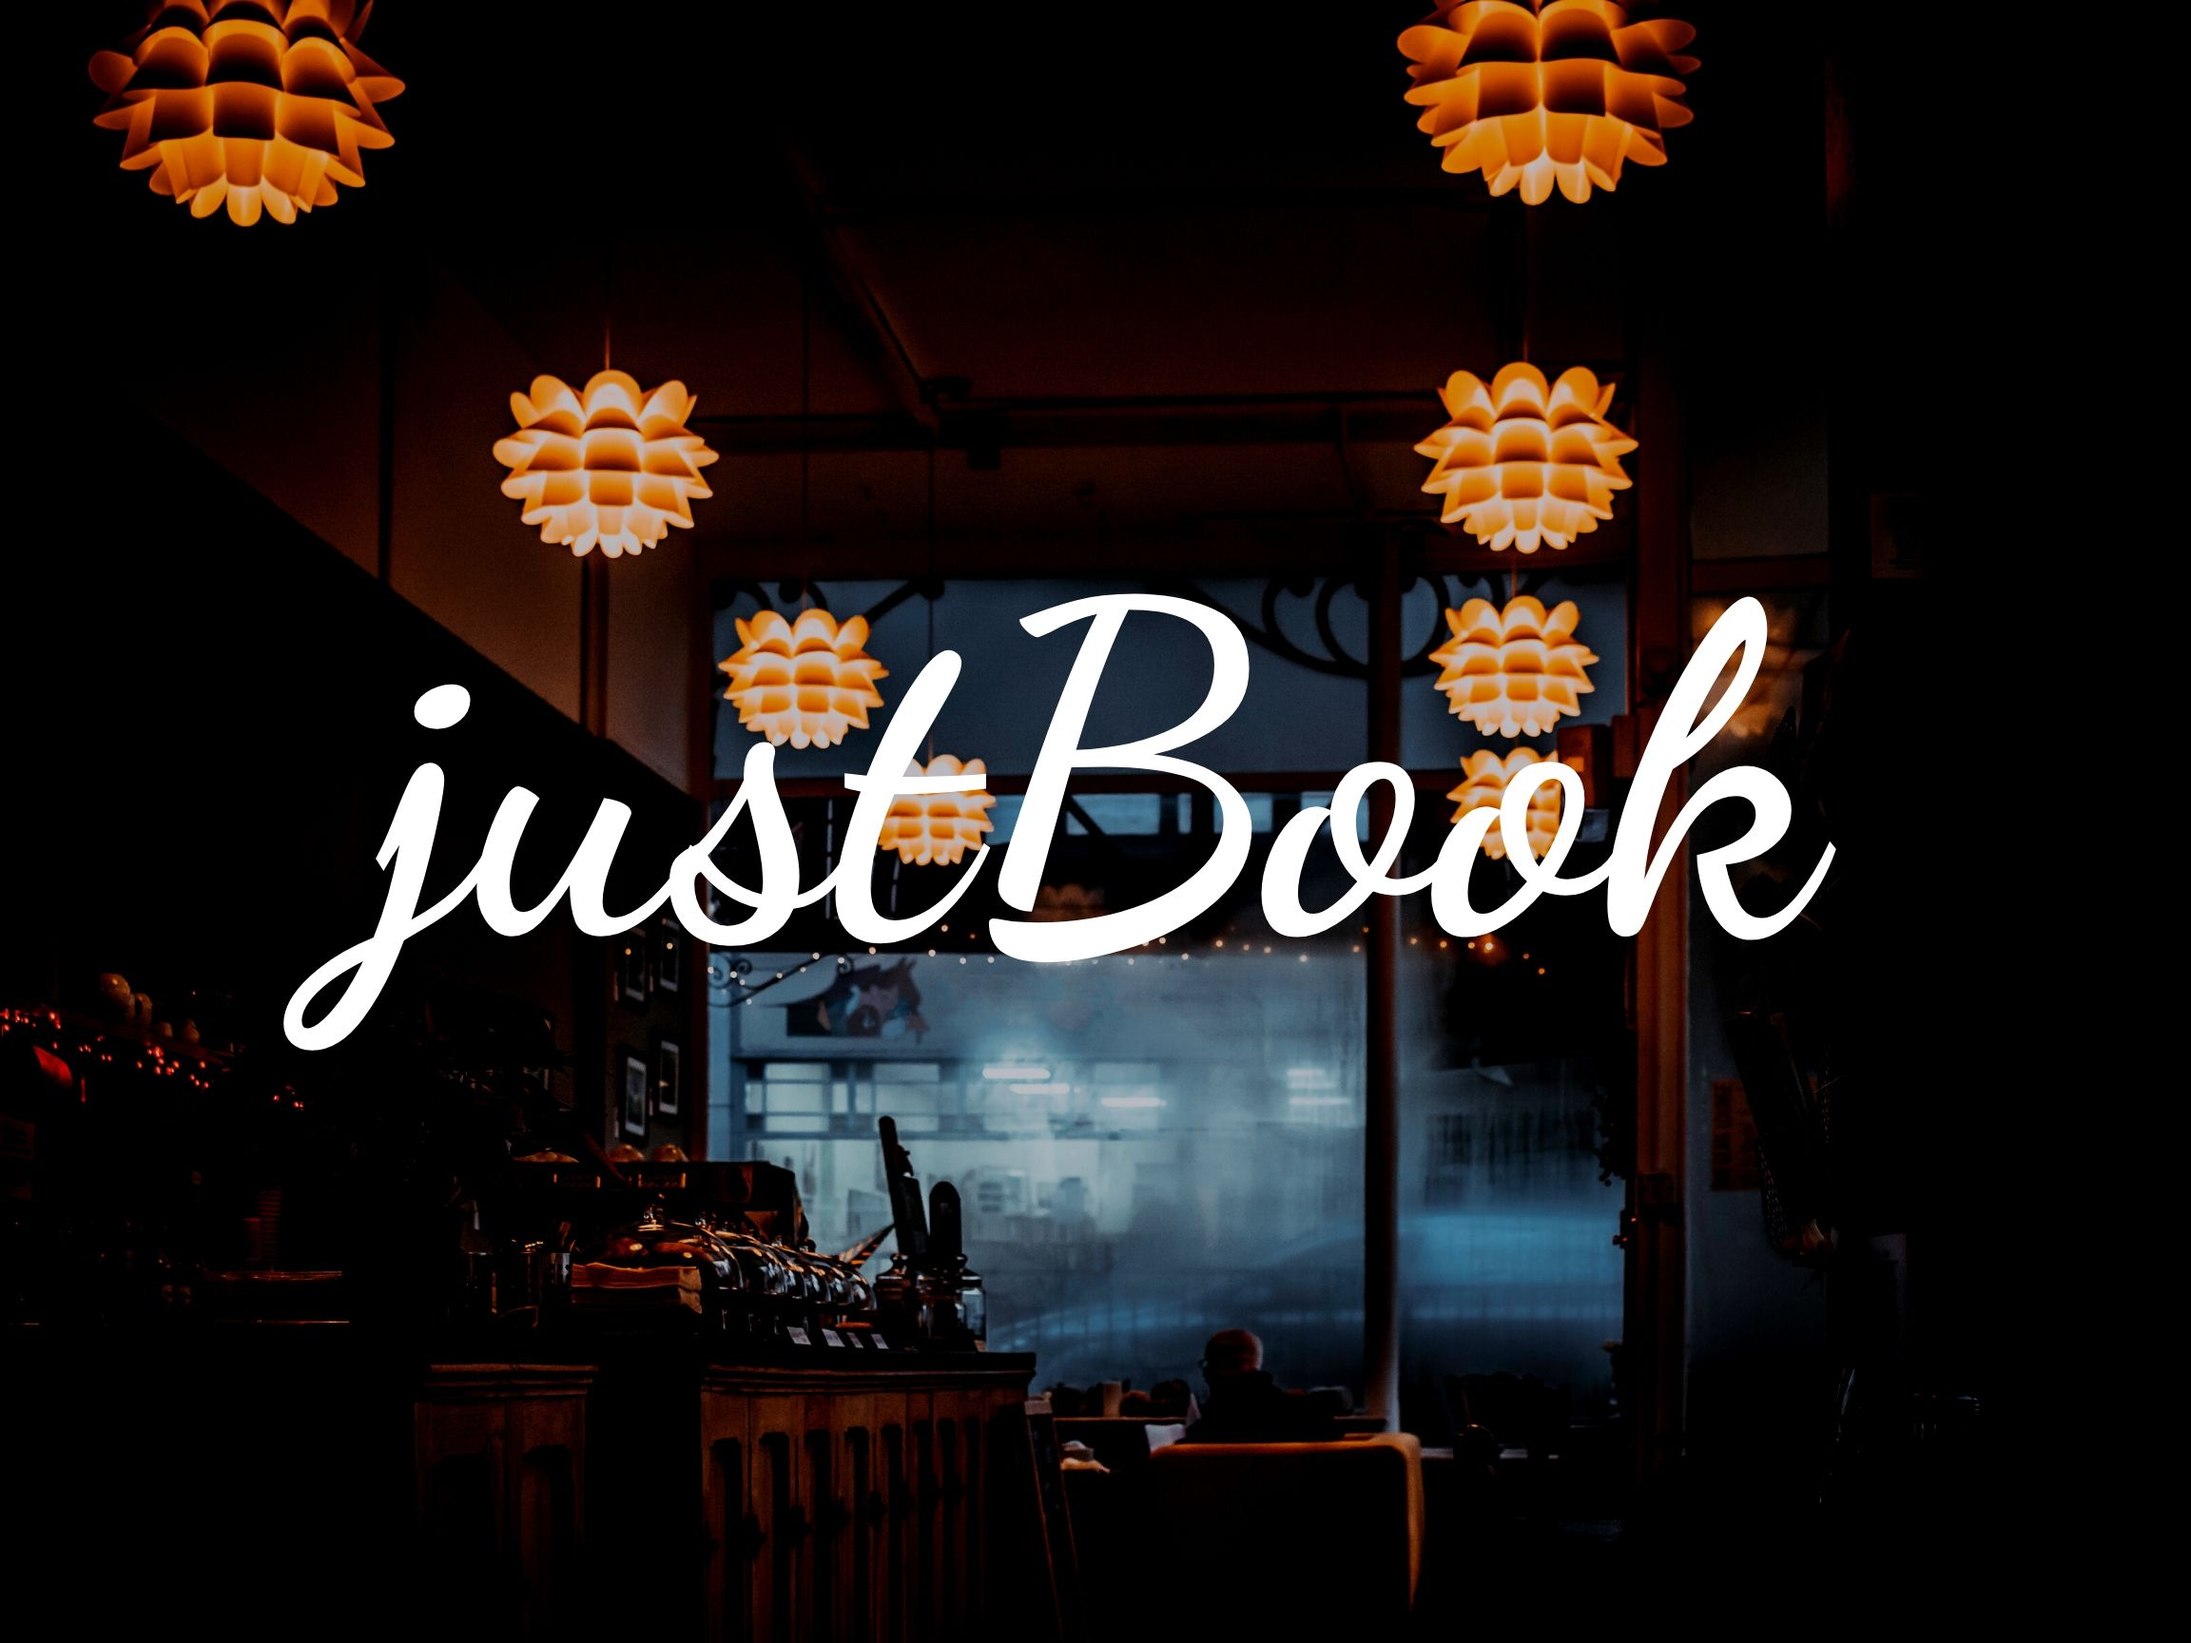
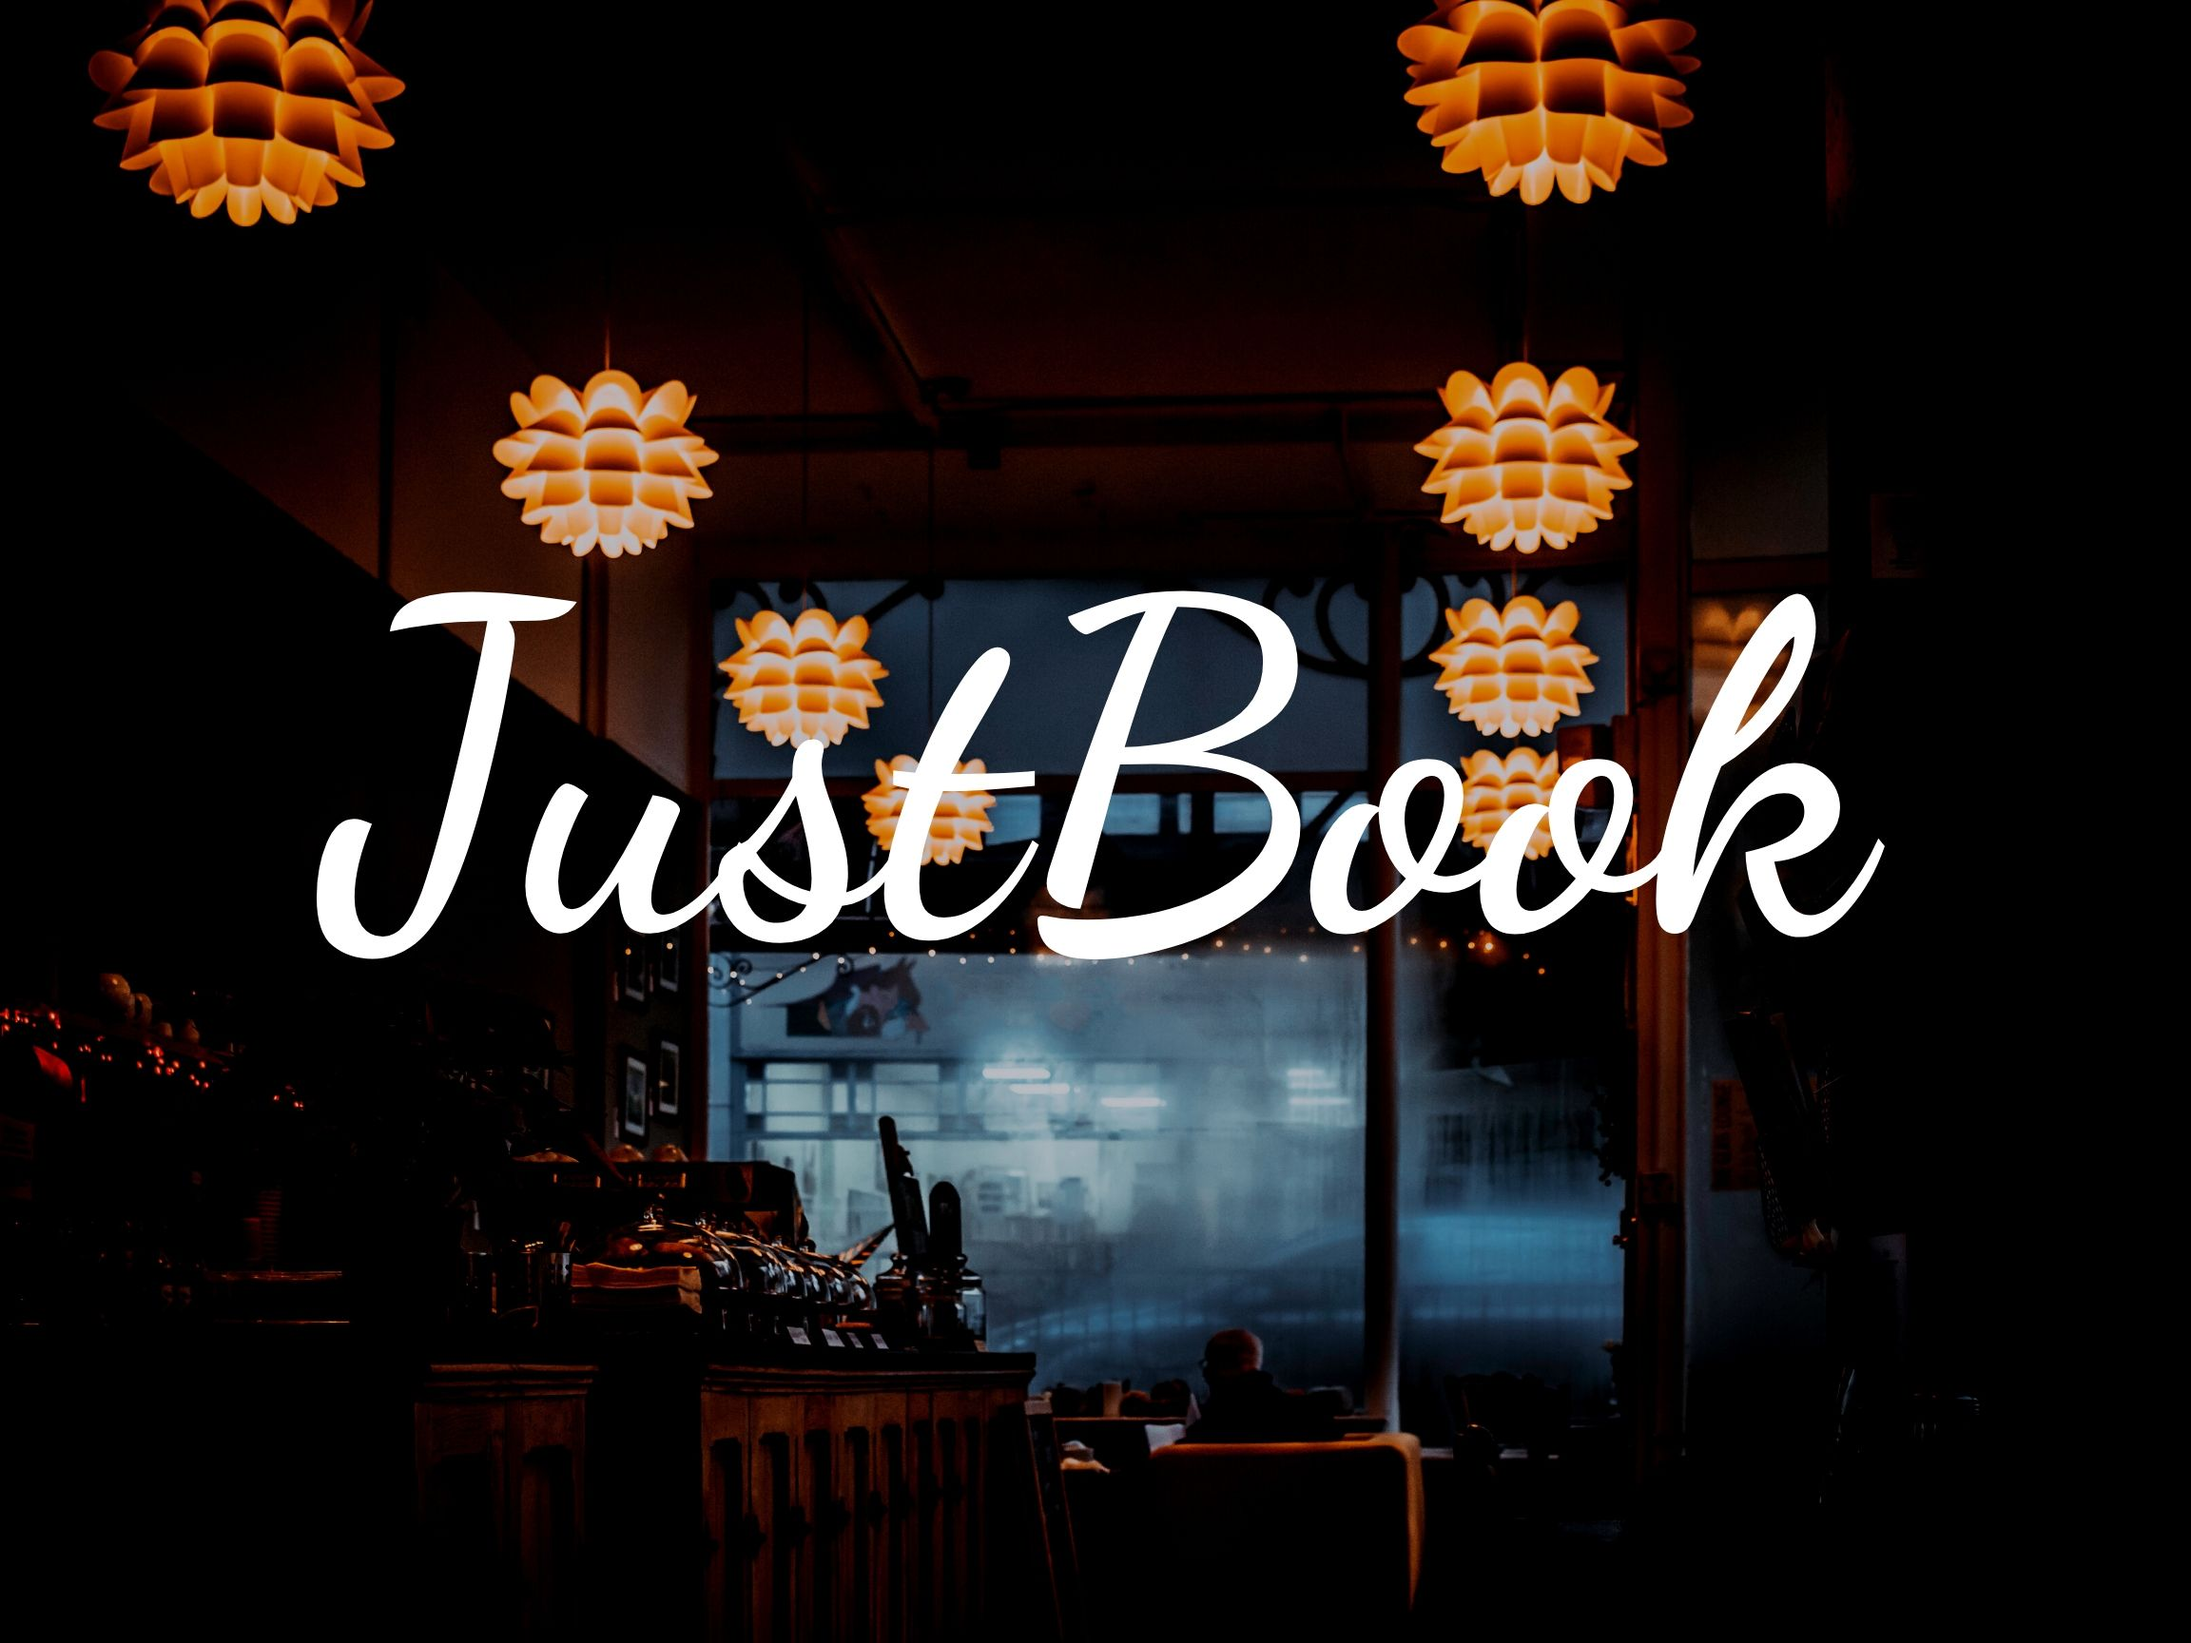
trying to work the form

Changed region(s): [[0.125, 0.3438, 0.875, 0.6562]]

diff --git a/frontend/src/components/AddCustomer.js b/frontend/src/components/AddCustomer.js
@@ -1,6 +1,8 @@
 import React, { Component } from 'react';
-import { StyleSheet, Text, View, TextInput } from 'react-native';
+import { StyleSheet, Text, View, TextInput, Button, Form } from 'react-native';
 import { FormLabel, FormInput, FormValidationMessage } from 'react-native-elements';
+import { Formik } from 'formik';
+
 
 
 class AddCustomer extends Component {
@@ -16,14 +18,26 @@ class AddCustomer extends Component {
 
   render(){
     return(
-          <View style={styles.customerForm}>
-            <Text style={styles.header}>Add Customer</Text>
-            <TextInput placeholder="Customer Name"></TextInput>
-            {/* <FormLabel>Name</FormLabel>
-            <FormInput onChangeText={console.log()}/>
-            <FormValidationMessage>Error message</FormValidationMessage> */}
-          </View>
-      )
+          // <View style={styles.customerForm}>
+          //   <Text style={styles.header}>Add Customer</Text>
+
+          <Formik
+          initialValues={{ email: '' }}
+          onSubmit={values => console.log(values)}
+          >
+          {({ handleChange, handleBlur, handleSubmit, values }) => (
+            <View>
+              <TextInput
+                onChangeText={handleChange('email')}
+                onBlur={handleBlur('email')}
+                value={values.email}
+              />
+              <Button onPress={handleSubmit} title="Submit" />
+            </View>
+          )}
+        </Formik>
+      );
+      
   }
 }
 

diff --git a/frontend/src/components/HomeScreen.js b/frontend/src/components/HomeScreen.js
@@ -1,9 +1,12 @@
 import * as React from "react";
-import { Text, View, Button } from "react-native";
+import { Text, View, Button, Image } from "react-native";
 
 const HomeScreen = ({ navigation }) => {
   return (
     <View style={{ flex: 2, alignItems: "center", justifyContent: "center" }}>
+      <Image style={{ flex: 5}}
+        source={require('../../assets/JustBook.jpg')}
+      />
       <Text>justBook</Text>
 
       <Button
